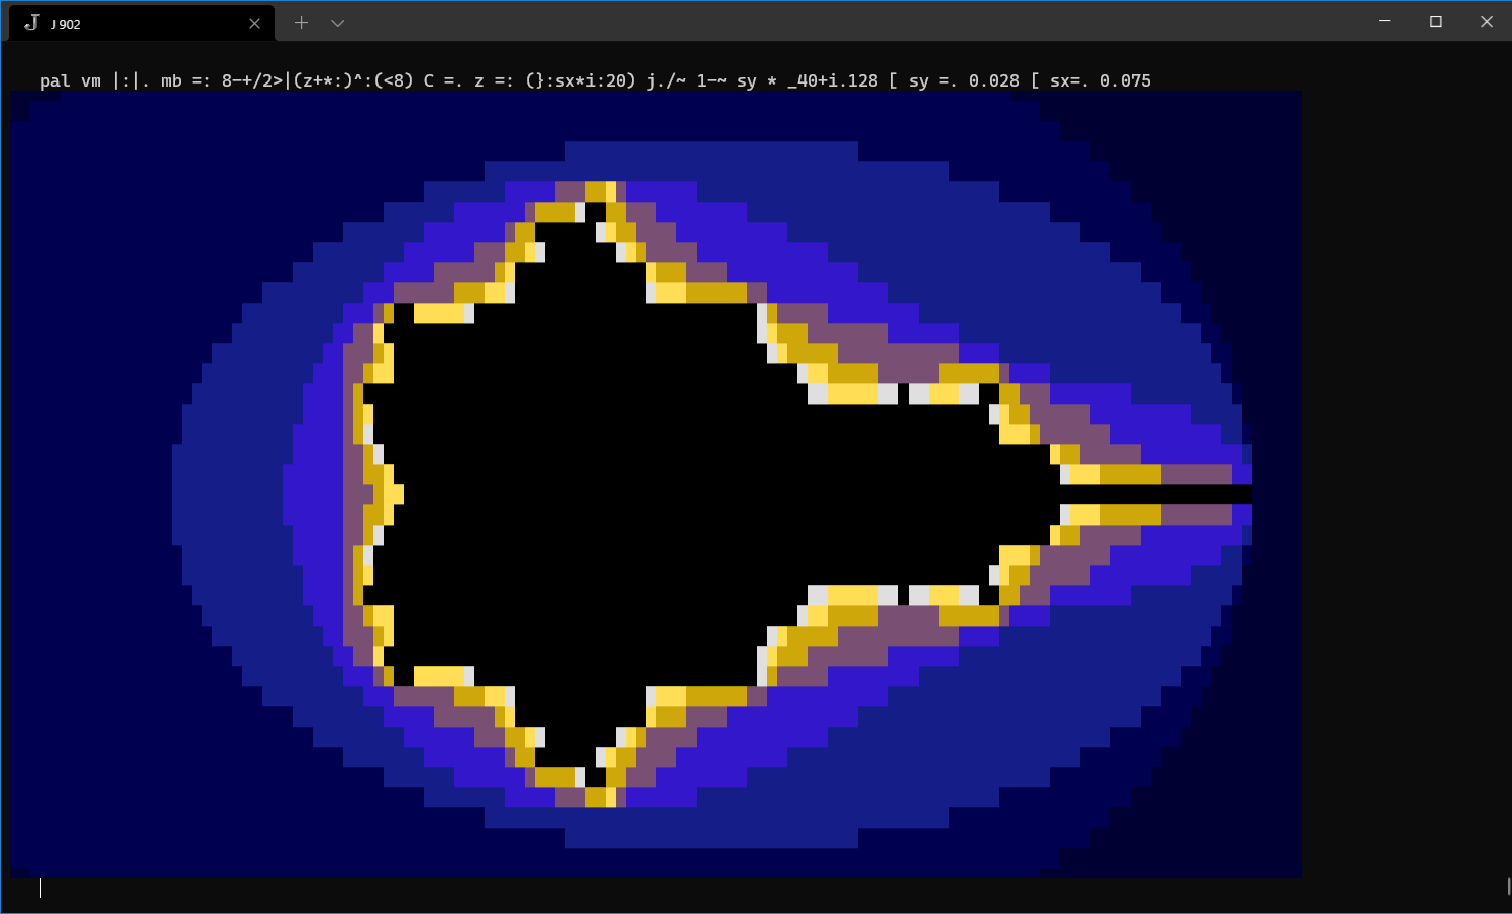
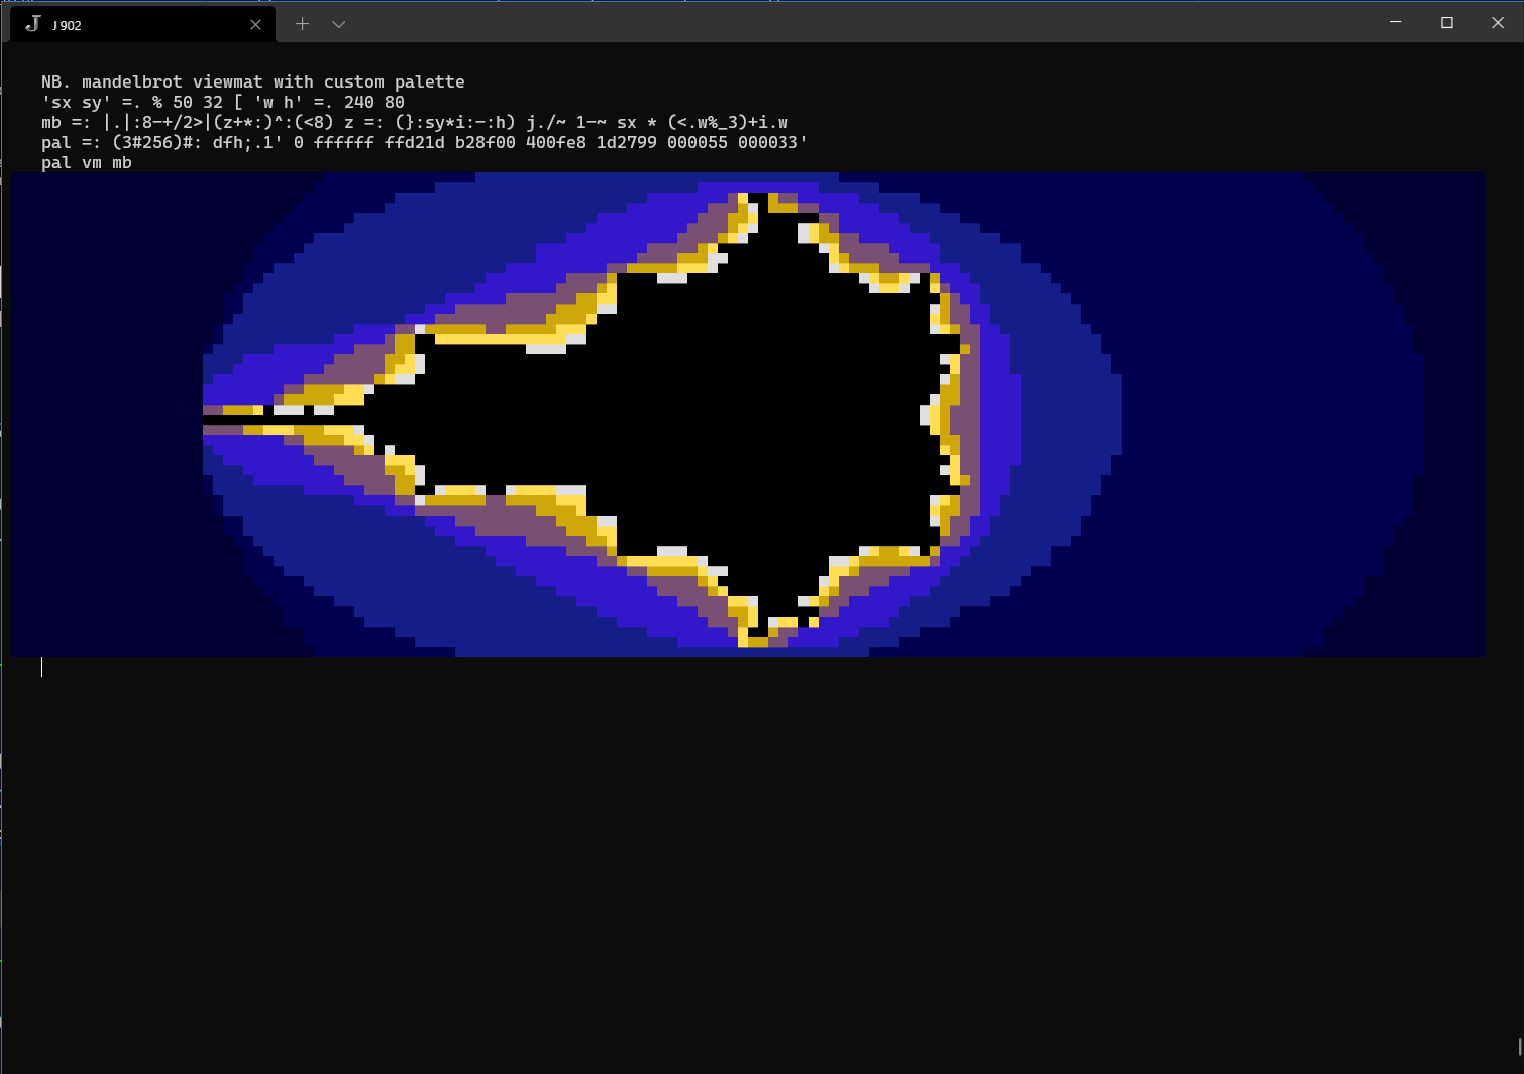
v0.0.3: fixed aspect ratio in viewmat, update readme demos

diff --git a/README.md b/README.md
@@ -25,32 +25,22 @@ There are actually 24-bit colors available. Enough to run viewmat:
 <img src="demo_vm_simple.png" height="640"/>
 
     NB. mandelbrot viewmat with custom palette
-    [ sy =. 0.028 [ sx=. 0.065
-    mb =: 8-+/2>|(z+*:)^:(<8) C =. z =: (}:sx*i:20) j./~ 1-~ sy * _40+i.128
+    'sx sy' =. % 50 32 [ 'w h' =. 240 80
+    mb =: |.|:8-+/2>|(z+*:)^:(<8) z =: (}:sy*i:-:h) j./~ 1-~ sx * (<.w%_3)+i.w
     pal =: (3#256)#: dfh;.1' 0 ffffff ffd21d b28f00 400fe8 1d2799 000055 000033'
-    pal vm |:|.mb
+    pal vm mb
 
 <img src="demo_vm_mandelbrot.png" height="640"/>
 
      load'tangentstorm/j-kvm/vid'
 
-     NB. draw a low-res mandelbrot set
-     sc =. 0.05  NB. scale
-     z =: (}:sc*i:20) j./~ 1-~ sc * _20+i.64
-     mb =:|. 8-+/2>|(z+*:)^:(<8) C =. z
-     pal =: dfh every' 'cut'00 ff dc ca 7d 57 27 1b 13'
+     NB. render a buffer of randomly colored characters
+     buf =: (|.hw=:<. -: gethw_vt_'') conew 'vid'
+     CHB__buf =: a. {~ 32 + ? hw $ 95
+     FGB__buf =: ? hw $ 256
+     echo'' [ 30 10 render buf
 
-     NB. this part illustrates how to render a color image to the terminal,
-     NB. using unicode block drawing characters, so that two 'pixels' are
-     NB. stored in every text cell in the console.
-     buf =: ( 1 0.5 * $mb) conew 'vid'
-     fill__buf u:16b2580
-     'fg bg'=:pal{~>(2|i.#|:mb) </. |:mb
-     FGB__buf=:fg
-     BGB__buf=:bg
-     render buf
-
-<img src="vid_mandelbrot.png">
+<img src="demo_vid.png" height="640">
 
 ## Usage
 

diff --git a/CHANGELOG.md b/CHANGELOG.md
@@ -1,4 +1,9 @@
 
+## version 0.0.3 - 7/29/2021
+
+- fixed scaling and aspect ratio on the in-console viewmat
+- updated demo code in README
+
 ## version 0.0.2 - 7/29/2021
 
 - got it working with stock `jconsole.exe` on windows 10.
